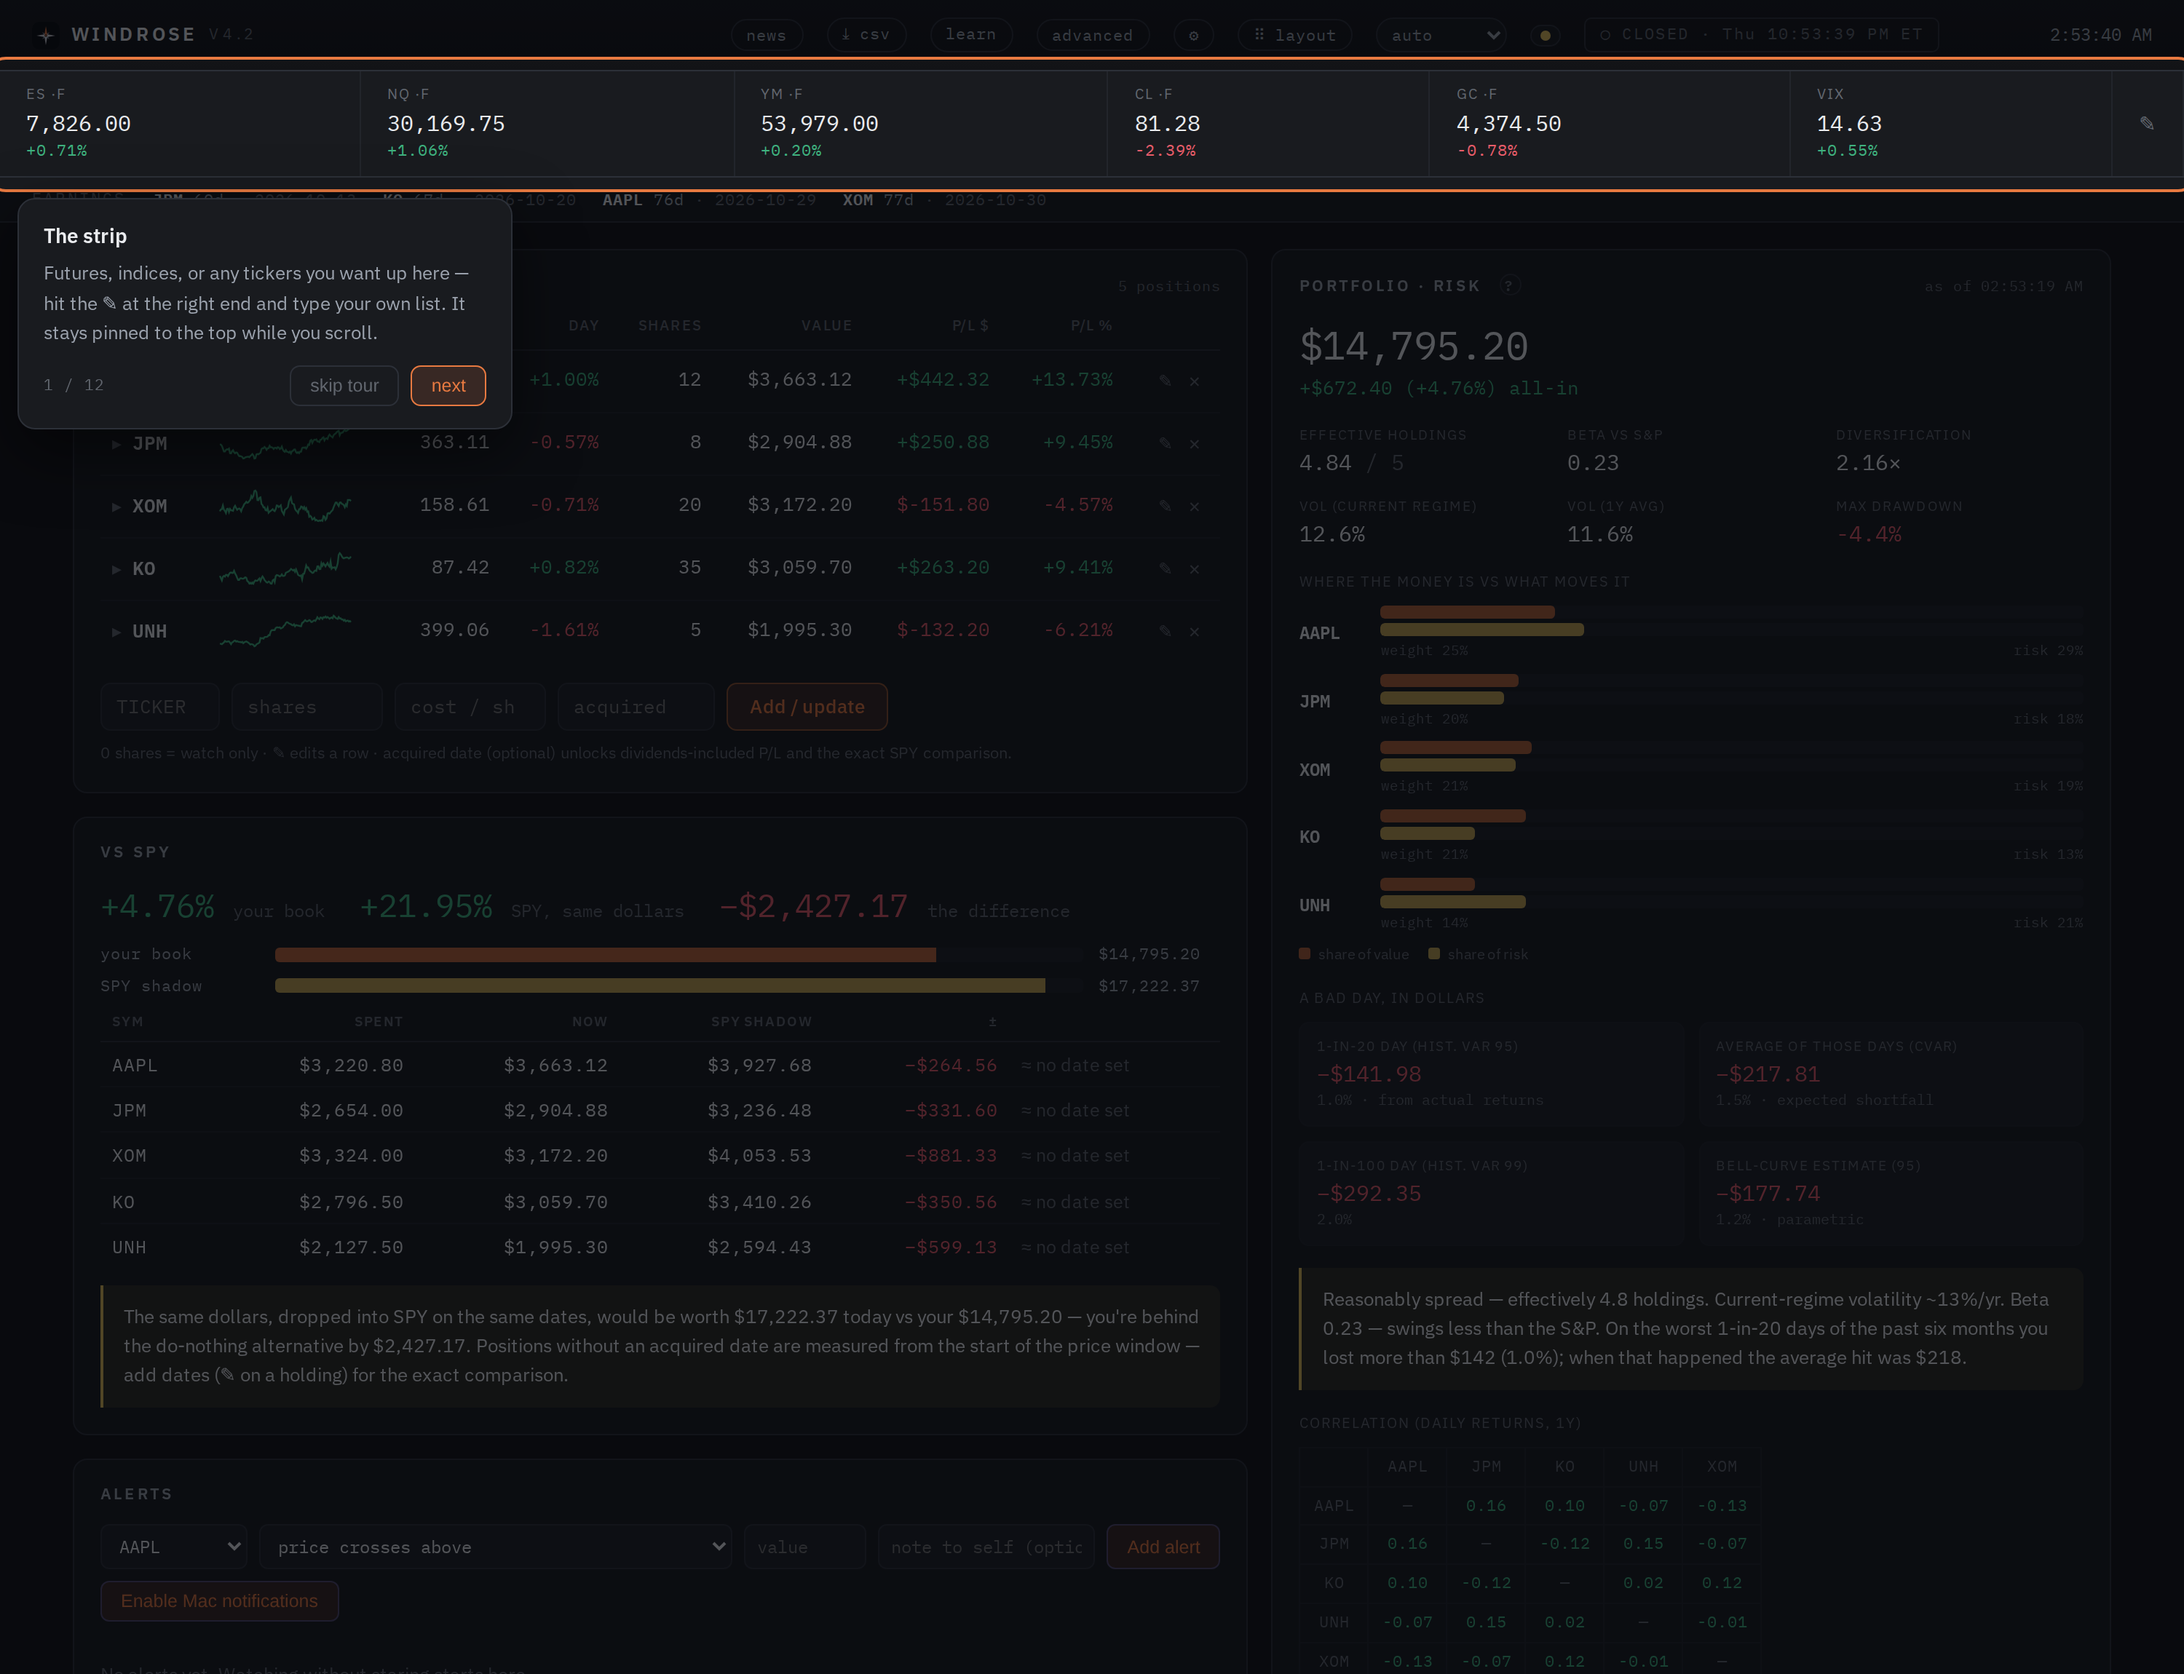
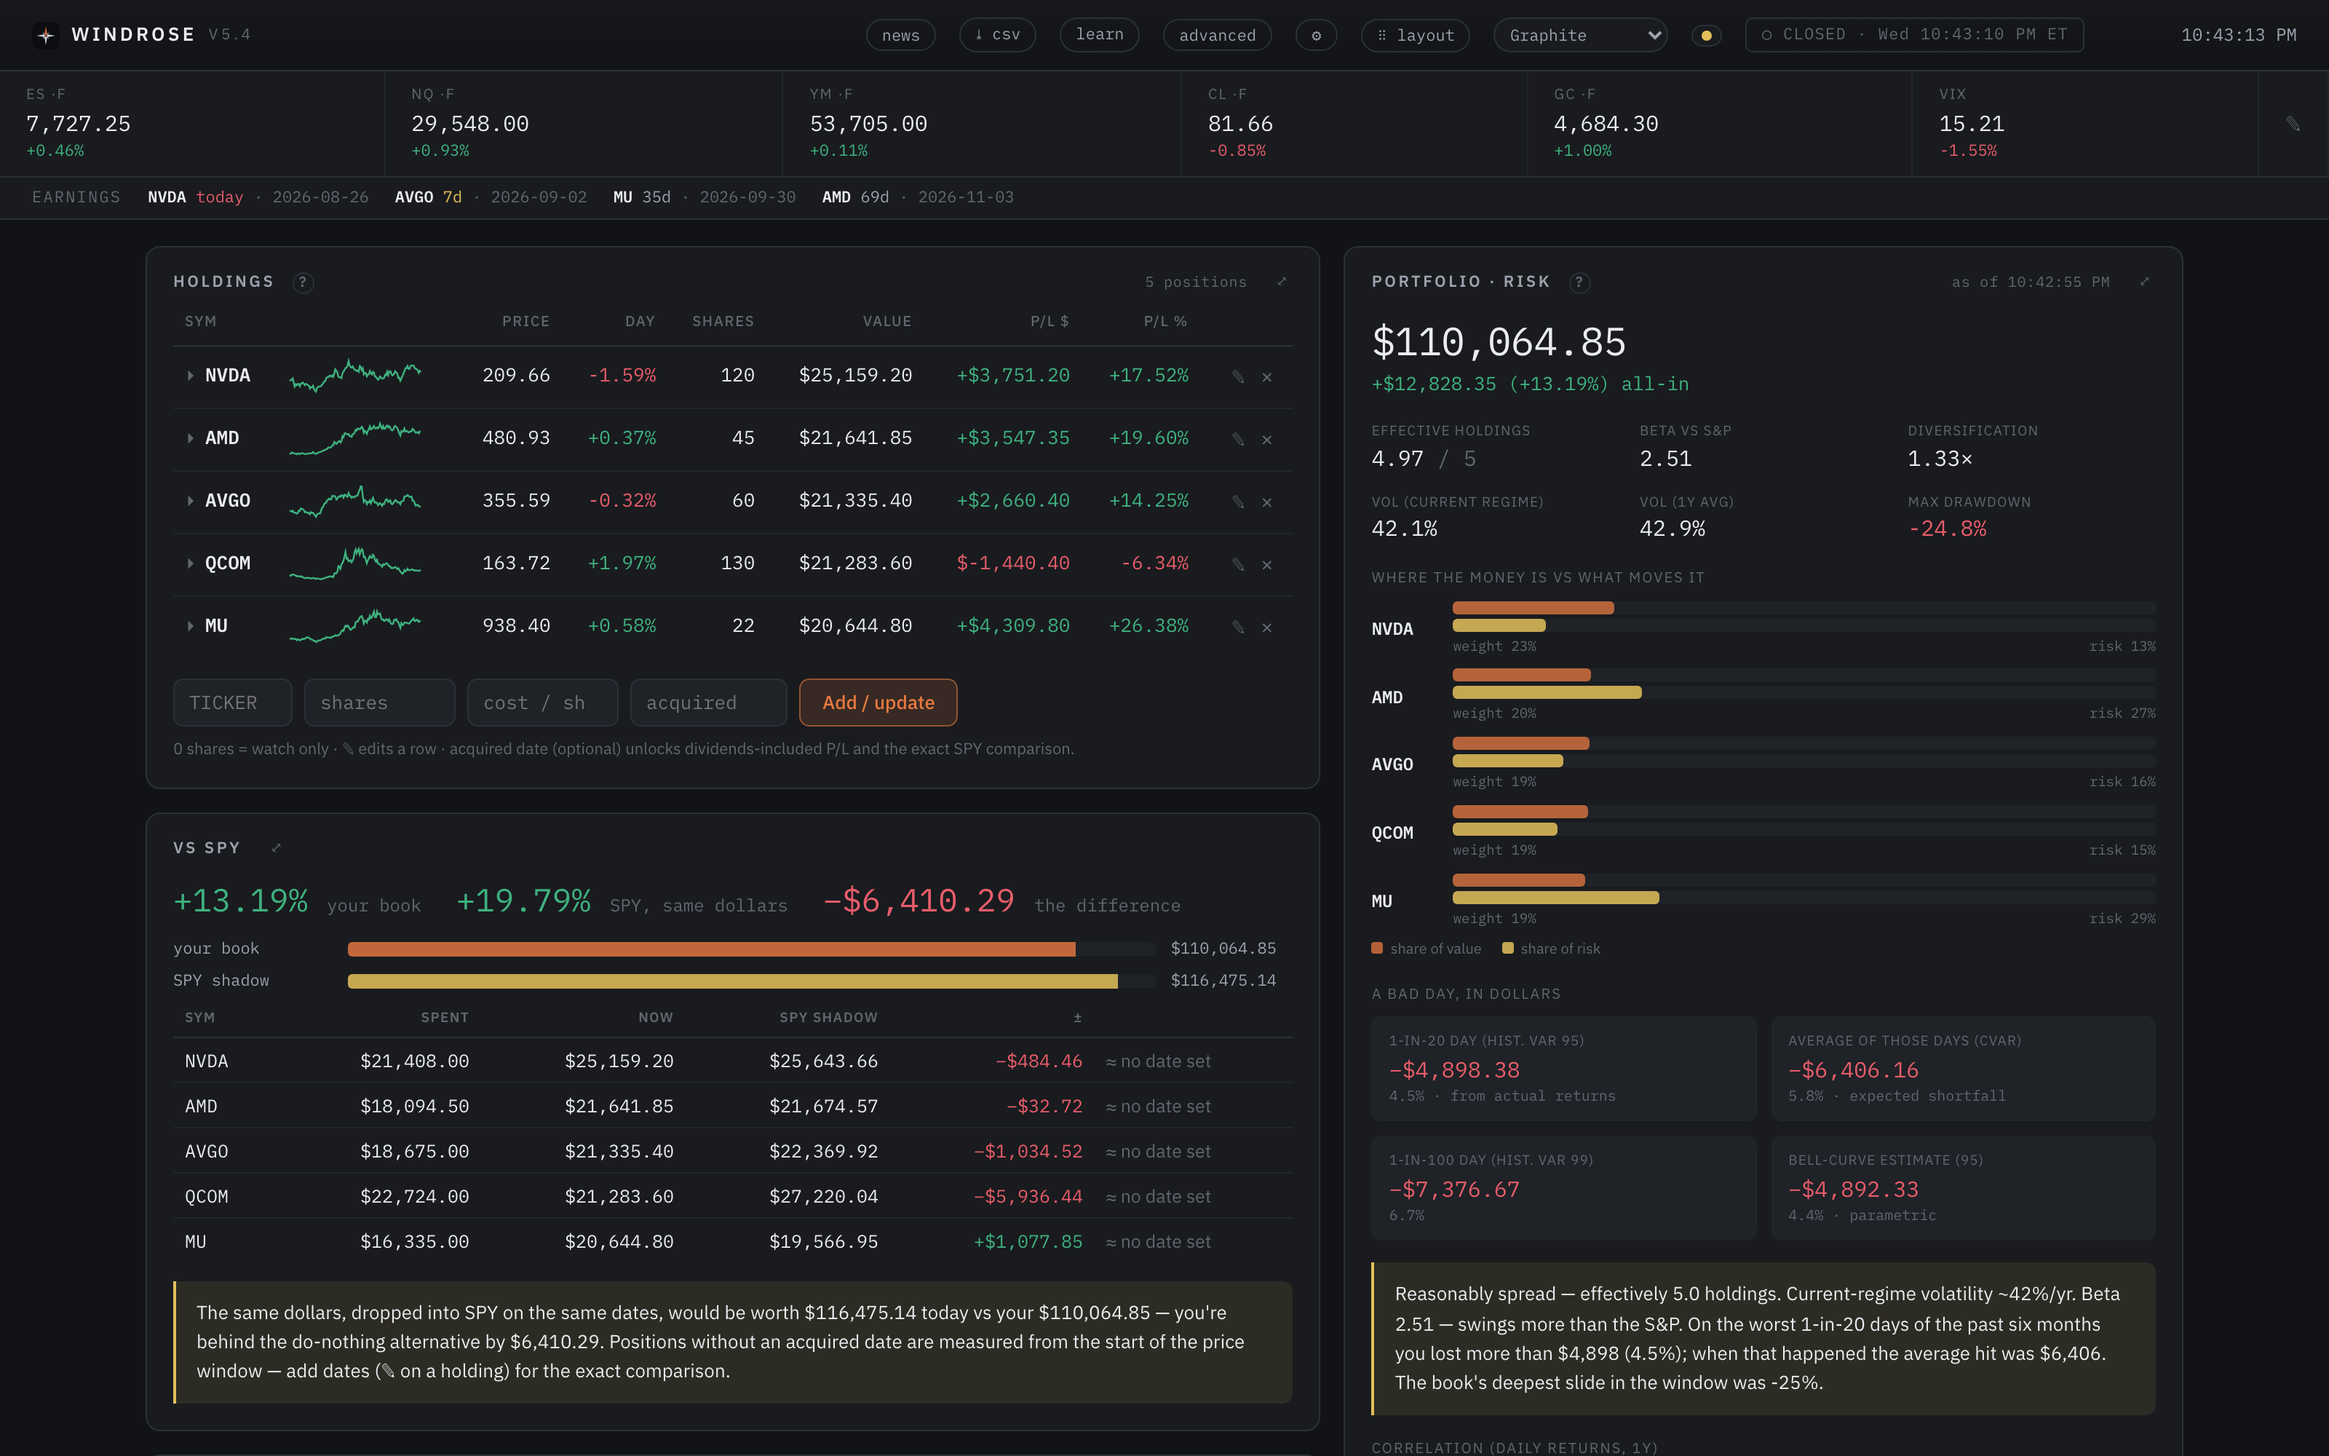
Launch screenshots, with chokepoints leading the README
Four images from a seeded demo book (NVDA/AMD/AVGO/QCOM/MU), never real
holdings: the chokepoints panel, the semiconductors map, the dashboard, and
the same panel across four themes.

The README now opens on chokepoints rather than the dashboard. Link
aggregators show no images at all, so that first README image is the first
thing anyone arriving from one actually sees, and the dependency panel is
the part nothing else does. The dashboard moves to the head of "What's in it".

Also corrects two stale claims found while writing the theme copy: there are
six themes plus Auto, not three, and colour-blind safe is a separate
green/red -> blue/orange toggle rather than a theme.

diff --git a/README.md b/README.md
@@ -8,7 +8,13 @@ It is deliberately **view-only**. Windrose cannot place a trade, and it never
 tells you what to buy. It shows you what you own, how it actually behaves
 together, and where it sits in the wider economy — then gets out of the way.
 
-![The Windrose dashboard](docs/screenshot.png)
+![What your book rests on: shared suppliers and shared customers underneath five semiconductor holdings](docs/chokepoints.png)
+
+Five holdings, five tickers, one industry — and underneath them, companies
+nobody in the book owns. Once each link is discounted for distance and for what
+the map can actually show about it, 60% of this book's value sits behind TSMC,
+with Cadence, Applied Materials and Lam Research behind it. Correlation only
+tells you that after it has cost you something.
 
 Stuck, or something looks wrong? [Open an issue](https://github.com/Shaw54-eagle/windrose/issues),
 or use **Report a problem** in Settings (⚙) — it fills in your version and
@@ -84,6 +90,8 @@ immediately if you pasted the wrong thing:
 
 ## What's in it
 
+![The Windrose dashboard: holdings, portfolio risk and the SPY comparison](docs/screenshot.png)
+
 **Holdings** — live prices, day moves, P/L against your cost. Zero shares means
 watch-only: full analysis, no effect on portfolio math. Add an acquired date and
 it unlocks dividend-included returns and an exact index comparison.
@@ -127,8 +135,14 @@ market with a running hit rate, and an honest note that a handful of decisions
 is noise, not skill.
 
 Plus: an editable ticker strip that follows you down the page, per-holding news
-dropdowns, a drag-anywhere panel layout, three themes, CSV export, and a guided
-tour on first run.
+dropdowns, a drag-anywhere panel layout, five layout presets, CSV export, and a
+guided tour on first run.
+
+**Themes** — six, plus an Auto setting that follows your system between light
+and dark, and a separate colour-blind safe toggle that swaps gain/loss green and
+red for blue and orange. The same panel in four of them:
+
+![The holdings panel in the graphite, midnight, terminal and sepia themes](docs/themes.png)
 
 ---
 
